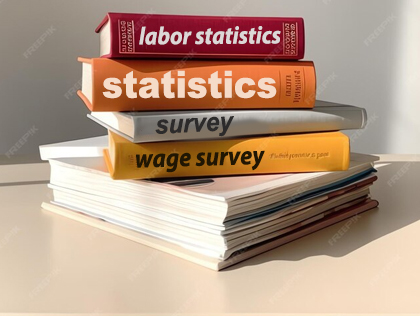
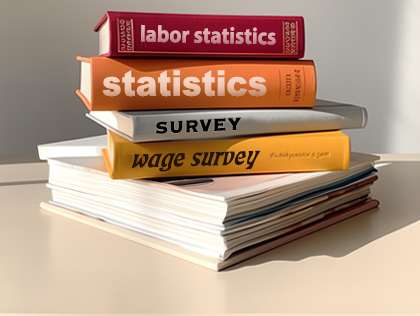
20240905修改圖片及html

diff --git a/np_new2.htm b/np_new2.htm
@@ -460,7 +460,7 @@
               <div class="more"><a href="#">+ 更多</a></div>
             </div>
             <div class="information_list ">
-              <div class="images"><img src="images/laborstatistics_pic03_.jpg" alt="">
+              <div class="images"><img src="images/laborstatistics_pic03.jpg" alt="">
                 <div class="explain"><span>統計專刊</span></div>
               </div>
               <ul>
